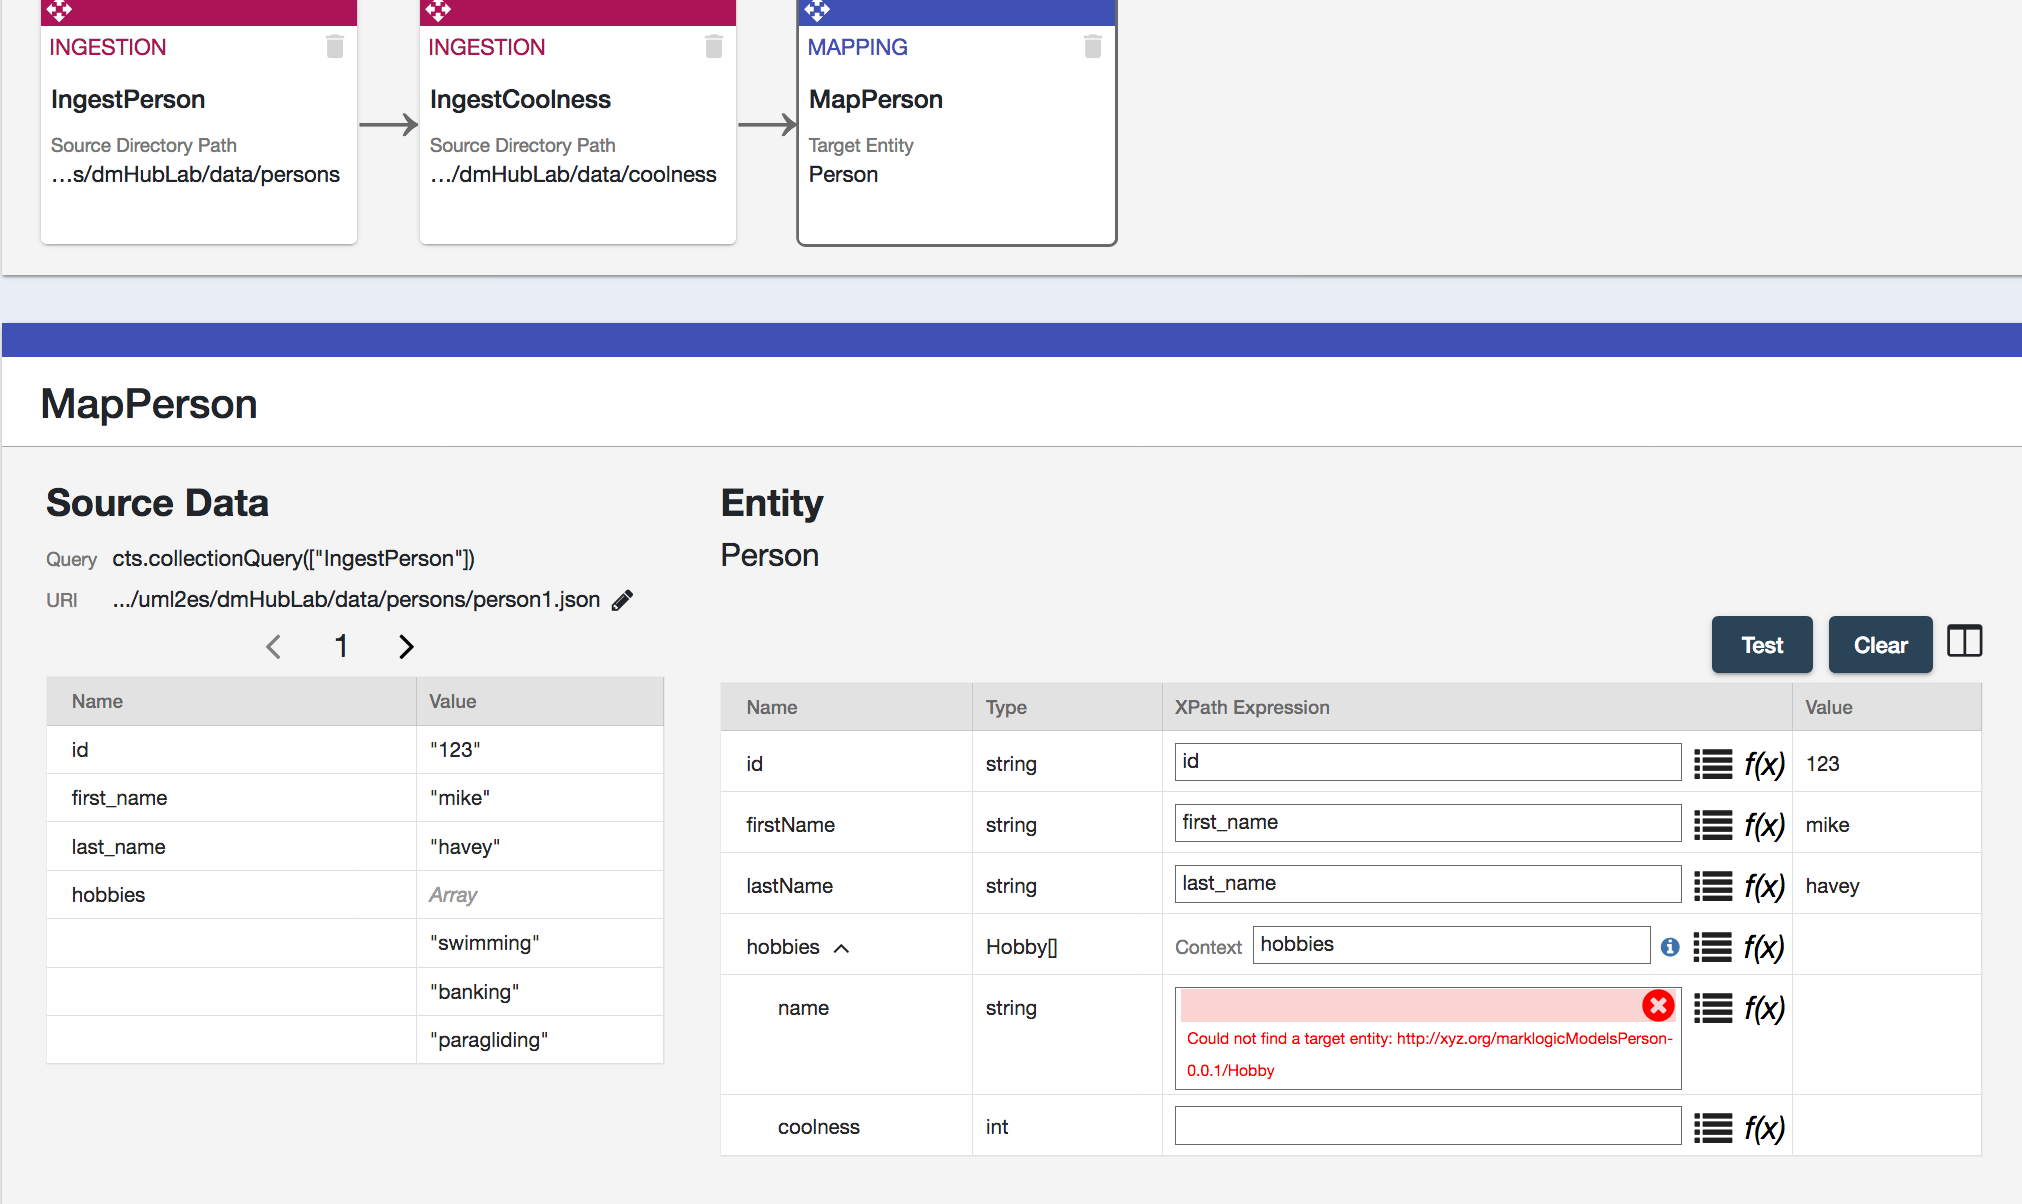
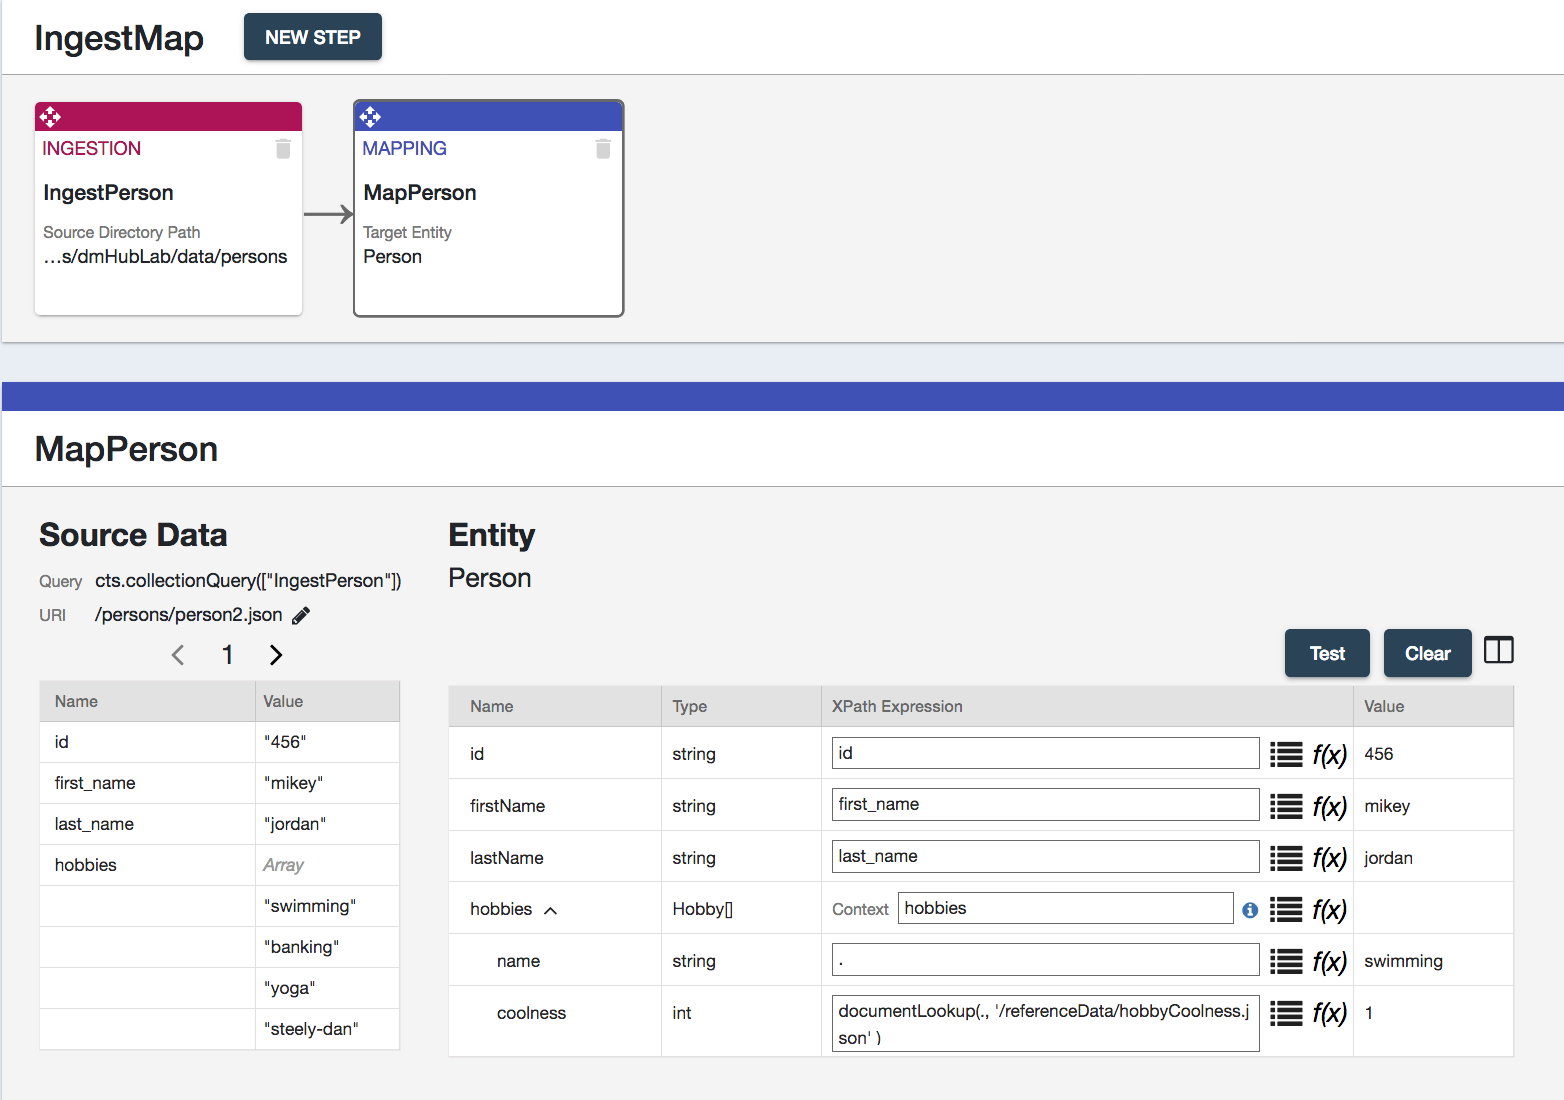
dhf5

diff --git a/uml2es/tutorials/dmui.md b/uml2es/tutorials/dmui.md
@@ -39,9 +39,13 @@ Pre-requisites:
 - Local clone of UML2ES
 - Data Hub Framework 5.1 QuickStart
 
+## Step 1a: Create an environment in Quick Start
+
 To begin, open Quick Start 5.1 in your browser and create a new project. Put it into a folder called dmHub. Once your new hub is up and running, you're ready to continue.
 
-Next copy into the dmHub folder the entire contents (preserving directory structure) of [dmHubLab/step1](dmHubLab/step1). You did the copy correctly if you see data/coolness/hobbyCoolness.json and log/log4j/properties directly under dmHub. 
+## Step 1b: Copy into project UML2ES source code, reference data, and sample source data
+
+Next copy into the dmHub folder the entire contents (preserving directory structure) of [dmHubLab/step1](dmHubLab/step1). You did the copy correctly if you see data/persons/person*.json, log/log4j/properties, and src/main/ml-data/referenceData/hobbyCoolness.json directly under dmHub. 
 
 Copy into dmHub/src/main/ml-modules/root the UML2ES transform code [../uml2esTransform/src/main/ml-modules/root/xmi2es](../uml2esTransform/src/main/ml-modules/root/xmi2es). You did it right if you can see the file dmHub/src/main/ml-modules/root/xml2es/xml2esTransform.xqy. If you don't see the file in exactly that this location, remove what you copied and try again at the correct level. 
 
@@ -55,27 +59,41 @@ When you are done, you should have the following folder structure:
 
 ![Step 1 - folder structure](images/dmui_setup1.png)
 
-After setting up the hub, you copied UML2ES source code into the project. To conclude the setup, deploy that code! First, edit edit gradle.properties to supply values for mlUsername and mlPassword. Then, from the command line, run the following gradle command; make sure to run this from your dmHub project folder. 
+## Step 1c: Deploy UML2ES source code and reference data
 
-./gradlew -i mlReloadModules
+After setting up the hub above, you copied UML2ES source code into the project. You also copied the hobbyCoolness.json dictionary into referenceData. To conclude the setup, push that code and data to the server! 
 
-5.1 Beta kludge ... If it's giving you dependency grief, edit your build.gradle file. First comment out the whole thing! Then add the following: 
+First, edit gradle.properties to supply values for mlUsername and mlPassword. 
+
+Next, edit build.gradle:
 
 ```
 buildscript {
-repositories {
-jcenter()
-maven {url 'http://distro.marklogic.com/nexus/repository/maven-releases/'}
+  repositories {
+    jcenter()
+    maven {url 'http://distro.marklogic.com/nexus/repository/maven-releases/'}
+  }
+  dependencies {
+    classpath "com.marklogic:ml-data-hub:5.1.0-rc1"
+  }
 }
-dependencies {
-classpath "com.marklogic:ml-data-hub:5.1.0-rc1"
-}
-}
+
 plugins {
-id 'net.saliman.properties' version '1.4.6'
+  id 'net.saliman.properties' version '1.4.6'
 }
+
 apply plugin: "com.marklogic.ml-data-hub"
+
+ext {
+    // Configuration for loading the reference data documents under src/main/ml-data
+    mlAppConfig.dataConfig.databaseName = mlStagingDbName
+    mlAppConfig.dataConfig.permissions = "flow-operator-role,read,flow-developer-role,update"
+}
 ```
+
+Finally, from the command line, run the following gradle command to promote UML2ES and reference data; make sure to run this from your dmHub project folder. 
+
+./gradlew -i mlReloadModules mlDeployApp #TODO, can I narrow this down?
 
 
 </p>
@@ -208,7 +226,7 @@ If you think you might have messed up along the way, a pre-cooked model is avail
 
 Now it's time to convert the UML model to Entity Services form. This is best done by running a Gradle command from the command line. Make sure you are in the dmHub project folder. Run the following:
 
-./gradlew -i -b uml2es4dhf51.gradle uDeployModelToDHF -PmodelFile=data/model/PWIModel/PWIModel.uml -PentitySelect=stereotype
+./gradlew -i -b uml2es4dhf51.gradle uDeployModelToDHF -PmodelFile=data/model/PWIModel/PWIModel.uml -PentitySelect=all #should be stereotype, but DHF wants every entity used in mapping (even secondary entities like hobby) to live in its ES definition
 
 Lots of things happen when you run this. If there were no issues, you will find a new file, called Person.entity.json, in the entities folder of you dmHub project.
 
@@ -232,17 +250,11 @@ In your new flow create an ingestion step called IngestPerson. It will ingest pe
 
 ![IngestPerson](images/dmui_setup101.png)
 
-Also create an ingestion step called IngestCoolness that ingests the coolness document from data/coolness.
-
-![IngestCoolness](images/dmui_setup102.png)
-
-Run the flow to ingest this data to your Staging database. Click the Run button. 
-
-![Run Ingest](images/dmui_setup103.png)
+Run the flow to ingest this data to your Staging database. When it completes, browse your Staging database. Confirm there are two person documents in the IngestPerson collection.
 
 ## Step 4b: Design Mapping
 
-Add a third step, of type Mapping, to your flow. Call it MapPerson. It draws its source data from collection IngestPerson. Its target entity is Person.
+Add a second step, of type Mapping, to your flow. Call it MapPerson. It draws its source data from collection IngestPerson. Its target entity is Person.
 
 ![Create MapPerson](images/dmui_setup104.png)
 
@@ -250,6 +262,24 @@ Then build the mapping as shown below.
 
 ![MapPerson](images/dmui_setup105.png)
 
+Notice the following:
+
+- Some obvious mappings: first_name -> firstName, last_name -> lastName, id -> id
+- In the source data, hobbies is an array of strings (e.g., swimming, banking). In the target, hobbies is an array of Hobby objects, which contains attributes name and coolness. For each source hobby there is one target hobby. Hence in target we map the hobbies attribute to the source hobbies array.
+- In the target hobby, name is just the corresponding hobby string in the the source. Hence, we map name to "." This means that the hobby name is the value of the corresponding hobby in the source.
+- In the target hobby, coolness is a numeric value determined by hobby name. Different hobbies have difference values of coolness. We specify this in a dictionary called hobbyCoolness.json. Recall you dealt with this dictionary in step 1. Here are its contents:
+
+```
+{
+  "swimming": 1,
+  "banking": 3,
+  "steely-dan": 1000000, 
+  "paragliding": 100000,
+  "scotch": 100000,
+  "yoga": 0
+}
+``` 
+- To obtain the value from the dictionary, we use this expression: documentLookup(., '/referenceData/hobbyCoolness.json' )
 
 </p>
 </details>
@@ -259,12 +289,7 @@ Then build the mapping as shown below.
 <details><summary>Click to view/hide this section</summary>
 <p>
 
-TODO ... 
-Hobby needs to be a primary entity too ; required by mapper 
-Can't get coolness to work...
-
-
-It's easy in Quick Start to run the mapping step to populate model-based Person documents into the FINAL database. Just click Run. In the Run Flow popup, select just MapPerson to run; you can skip IngestPerson and IngestCoolness, which you already ran above.
+It's easy in Quick Start to run the mapping step to populate model-based Person documents into the FINAL database. Just click Run. In the Run Flow popup, select just MapPerson to run; you can skip IngestPerson, which you already ran above.
 
 ![Run MapPerson](images/dmui_setup106.png)
 
@@ -273,13 +298,26 @@ Now let's look at the data. Select the Browse Data menu. From the top-center dro
 ```
 {
   "envelope": {
-    "headers": {},
+    "headers": {
+      "sources": [
+        {
+          "name": "IngestMap"
+        }
+      ],
+      "createdOn": "2019-12-05T14:37:01.142267-05:00",
+      "createdBy": "admin"
+    },
     "triples": [],
     "instance": {
+      "info": {
+        "title": "Person",
+        "version": "0.0.1",
+        "baseUri": "http://xyz.org/marklogicModels",
+        "description": ""
+      },
       "Person": {
-        "id": "/pwi/123.json",
-        "firstName": "mike",
-        "lastName": "havey",
+        "firstName": "mikey",
+        "lastName": "jordan",
         "hobbies": [
           {
             "Hobby": {
@@ -295,14 +333,20 @@ Now let's look at the data. Select the Browse Data menu. From the top-center dro
           },
           {
             "Hobby": {
-              "name": "paragliding",
-              "coolness": 100000
+              "name": "yoga",
+              "coolness": 0
+            }
+          },
+          {
+            "Hobby": {
+              "name": "steely-dan",
+              "coolness": 1000000
             }
           }
-        ]
+        ],
+        "id": "456"
       }
-    },
-    "attachments": null
+    }
   }
 }
 ```
